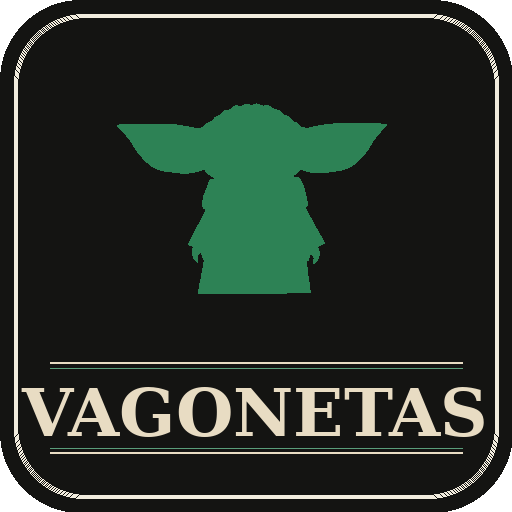
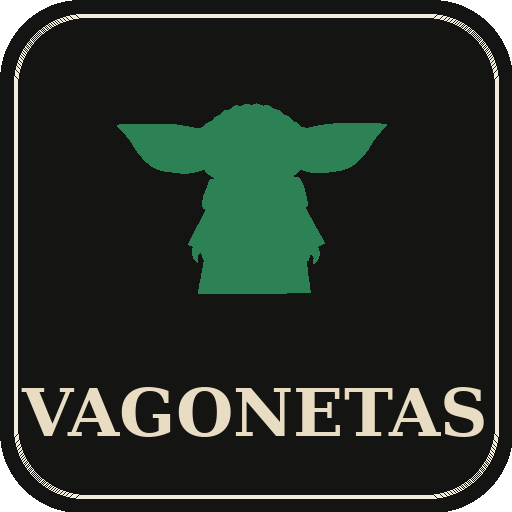
Add key y nuevo icono

Changed region(s): [[0.0938, 0.875, 0.9062, 0.9062], [0.0938, 0.6875, 0.9062, 0.7188]]

diff --git a/index.html b/index.html
@@ -12,84 +12,65 @@
 * { box-sizing: border-box; margin: 0; padding: 0; }
 body { font-family: 'Cormorant Garamond', Georgia, serif; background: #141412; min-height: 100vh; color: #E8DCC3; font-size: 16px; }
 .app { max-width: 420px; margin: 0 auto; padding: 1rem; }
-
 .header { text-align: center; padding: 1.5rem 0 1rem; border-bottom: 1px solid #2d6b4a; margin-bottom: 1.25rem; position: relative; }
 .header-logo { width: 52px; height: 52px; border-radius: 12px; margin: 0 auto 8px; display: block; }
 .header h1 { font-family: 'Playfair Display', Georgia, serif; font-size: 30px; font-weight: 700; color: #E8DCC3; letter-spacing: 5px; text-transform: uppercase; }
 .header-sub { font-size: 13px; color: #2d8a52; letter-spacing: 3px; text-transform: uppercase; margin-top: 4px; font-weight: 300; }
 .status-area { position: absolute; top: 1.5rem; right: 0; display: flex; flex-direction: column; align-items: flex-end; gap: 4px; }
-.status-text { font-size: 11px; color: #666; display: flex; align-items: center; gap: 4px; font-family: 'Cormorant Garamond', serif; }
+.status-text { font-size: 11px; color: #666; display: flex; align-items: center; gap: 4px; }
 .status-dot { width: 7px; height: 7px; border-radius: 50%; background: #444; }
 .status-dot.connected { background: #2d8a52; }
 .status-dot.error { background: #8a2d2d; }
-.disconnect-btn { font-size: 10px; color: #555; background: none; border: none; cursor: pointer; font-family: 'Cormorant Garamond', serif; letter-spacing: 1px; text-decoration: underline; padding: 0; }
-.disconnect-btn:hover { color: #8a2d2d; }
-
 .divider { display: flex; align-items: center; gap: 10px; margin: 0.75rem 0; color: #2d6b4a; font-size: 13px; font-style: italic; }
 .divider::before, .divider::after { content: ''; flex: 1; height: 1px; background: #2d6b4a; }
-
 .tab-bar { display: flex; gap: 0; border: 1px solid #2d6b4a; border-radius: 4px; overflow: hidden; margin-bottom: 1.25rem; }
 .tab { flex: 1; padding: 10px 0; font-size: 13px; text-align: center; cursor: pointer; border: none; background: transparent; color: #666; font-family: 'Cormorant Garamond', serif; letter-spacing: 2px; text-transform: uppercase; border-right: 1px solid #2d6b4a; transition: all 0.15s; }
 .tab:last-child { border-right: none; }
 .tab.active { background: #2d6b4a; color: #E8DCC3; }
-
 .card { background: #1c1c18; border: 1px solid #2d6b4a; border-radius: 4px; padding: 1rem 1.25rem; margin-bottom: 1rem; }
-
-.balance-label { font-size: 11px; color: #2d8a52; letter-spacing: 3px; text-transform: uppercase; margin-bottom: 6px; font-weight: 400; }
+.balance-label { font-size: 11px; color: #2d8a52; letter-spacing: 3px; text-transform: uppercase; margin-bottom: 6px; }
 .balance-amount { font-family: 'Playfair Display', Georgia, serif; font-size: 42px; font-weight: 600; color: #E8DCC3; line-height: 1; }
 .balance-sub { font-size: 14px; color: #666; margin-top: 6px; letter-spacing: 1px; font-style: italic; }
 .balance-positive { color: #2d8a52; }
 .balance-negative { color: #8a4a2d; }
-
 .field { margin-bottom: 14px; }
-.field label { display: block; font-size: 11px; color: #2d8a52; margin-bottom: 5px; letter-spacing: 2px; text-transform: uppercase; font-weight: 400; }
+.field label { display: block; font-size: 11px; color: #2d8a52; margin-bottom: 5px; letter-spacing: 2px; text-transform: uppercase; }
 .field input, .field select { width: 100%; padding: 10px 12px; font-size: 15px; border: 1px solid #2d6b4a; border-radius: 3px; background: #141412; color: #E8DCC3; font-family: 'Cormorant Garamond', serif; outline: none; transition: border-color 0.15s; }
 .field input:focus, .field select:focus { border-color: #2d8a52; }
 .field select option { background: #141412; }
 .field input::placeholder { color: #444; font-style: italic; }
-
 .toggle-row { display: flex; gap: 0; border: 1px solid #2d6b4a; border-radius: 3px; overflow: hidden; }
 .toggle-btn { flex: 1; padding: 11px 0; font-size: 12px; border: none; border-right: 1px solid #2d6b4a; background: #141412; color: #555; cursor: pointer; font-family: 'Cormorant Garamond', serif; letter-spacing: 1px; text-transform: uppercase; transition: all 0.15s; }
 .toggle-btn:last-child { border-right: none; }
 .toggle-btn.active-compartido { background: #1a3d28; color: #4db87a; }
 .toggle-btn.active-pablo { background: #1a2a3d; color: #6a9fd8; }
 .toggle-btn.active-julieta { background: #3d1a2a; color: #d86a9f; }
-
 .payer-row { display: flex; gap: 0; border: 1px solid #2d6b4a; border-radius: 3px; overflow: hidden; }
 .payer-btn { flex: 1; padding: 11px 0; font-size: 14px; border: none; border-right: 1px solid #2d6b4a; background: #141412; color: #555; cursor: pointer; font-family: 'Cormorant Garamond', serif; letter-spacing: 2px; text-transform: uppercase; transition: all 0.15s; }
 .payer-btn:last-child { border-right: none; }
 .payer-btn.active { background: #2d6b4a; color: #E8DCC3; }
-
 .submit-btn { width: 100%; padding: 13px; font-size: 14px; border: 1px solid #2d8a52; border-radius: 3px; background: #1a3d28; color: #E8DCC3; cursor: pointer; margin-top: 4px; font-family: 'Cormorant Garamond', serif; letter-spacing: 4px; text-transform: uppercase; transition: all 0.15s; }
 .submit-btn:hover { background: #2d6b4a; }
 .submit-btn:disabled { opacity: 0.4; cursor: not-allowed; }
-
 .expense-item { background: #1c1c18; border: 1px solid #2a2a24; border-radius: 3px; padding: 12px 14px; display: flex; justify-content: space-between; align-items: center; margin-bottom: 6px; transition: border-color 0.15s; }
 .expense-item:hover { border-color: #2d6b4a; }
-.expense-cat { font-size: 15px; color: #E8DCC3; font-family: 'Cormorant Garamond', serif; font-weight: 500; }
+.expense-cat { font-size: 15px; color: #E8DCC3; font-weight: 500; }
 .expense-subcat { font-size: 11px; color: #2d8a52; letter-spacing: 1px; text-transform: uppercase; }
 .expense-meta { font-size: 12px; color: #555; margin-top: 3px; font-style: italic; }
 .expense-amount { font-family: 'Playfair Display', Georgia, serif; font-size: 17px; color: #E8DCC3; text-align: right; font-weight: 600; }
-.expense-badge { font-size: 10px; padding: 2px 7px; border-radius: 2px; margin-top: 4px; display: inline-block; letter-spacing: 1px; text-transform: uppercase; font-family: 'Cormorant Garamond', serif; }
+.expense-badge { font-size: 10px; padding: 2px 7px; border-radius: 2px; margin-top: 4px; display: inline-block; letter-spacing: 1px; text-transform: uppercase; }
 .badge-compartido { background: #1a3d28; color: #4db87a; border: 1px solid #2d6b4a; }
 .badge-pablo { background: #1a2a3d; color: #6a9fd8; border: 1px solid #2a4a6b; }
 .badge-julieta { background: #3d1a2a; color: #d86a9f; border: 1px solid #6b2a4a; }
-
 .stat-grid { display: grid; grid-template-columns: 1fr 1fr; gap: 8px; }
 .stat-box { background: #141412; border: 1px solid #2d6b4a; border-radius: 3px; padding: 12px; }
 .stat-label { font-size: 10px; color: #2d8a52; letter-spacing: 2px; text-transform: uppercase; margin-bottom: 6px; }
 .stat-value { font-family: 'Playfair Display', Georgia, serif; font-size: 22px; color: #E8DCC3; font-weight: 600; }
-
-.setup-field { margin-bottom: 12px; }
-.setup-field label { display: block; font-size: 11px; color: #2d8a52; margin-bottom: 5px; letter-spacing: 2px; text-transform: uppercase; }
-.setup-field input { width: 100%; padding: 10px 12px; font-size: 13px; border: 1px solid #2d6b4a; border-radius: 3px; background: #141412; color: #E8DCC3; font-family: monospace; }
-.connect-btn { width: 100%; padding: 12px; font-size: 13px; border: 1px solid #2d8a52; border-radius: 3px; background: #141412; color: #E8DCC3; cursor: pointer; font-family: 'Cormorant Garamond', serif; letter-spacing: 4px; text-transform: uppercase; transition: all 0.15s; margin-bottom: 0; }
-.connect-btn:hover { background: #1a3d28; }
-
 .toast { position: fixed; bottom: 24px; left: 50%; transform: translateX(-50%); background: #1a3d28; border: 1px solid #2d8a52; color: #E8DCC3; padding: 10px 22px; border-radius: 3px; font-size: 13px; font-family: 'Cormorant Garamond', serif; letter-spacing: 2px; opacity: 0; transition: opacity 0.3s; pointer-events: none; white-space: nowrap; z-index: 999; font-style: italic; }
 .toast.show { opacity: 1; }
 .toast.error-toast { background: #3d1a1a; border-color: #8a2d2d; }
 .empty-state { text-align: center; padding: 3rem 1rem; color: #444; font-size: 14px; letter-spacing: 2px; text-transform: uppercase; font-style: italic; }
+.connecting-screen { text-align: center; padding: 3rem 1rem; color: #2d8a52; font-size: 14px; letter-spacing: 3px; text-transform: uppercase; font-style: italic; }
 </style>
 </head>
 <body>
@@ -103,87 +84,78 @@ body { font-family: 'Cormorant Garamond', Georgia, serif; background: #141412; m
     <div class="status-area">
       <div class="status-text">
         <span class="status-dot" id="status-dot"></span>
-        <span id="status-text">offline</span>
+        <span id="status-text">conectando...</span>
       </div>
-      <button class="disconnect-btn" id="disconnect-btn" onclick="desconectar()" style="display:none;">desconectar</button>
     </div>
   </div>
 
-  <div class="card" id="setup-section">
-    <div class="divider">conexión</div>
-    <div class="setup-field">
-      <label>Private Key</label>
-      <input type="password" id="private-key-input" placeholder="-----BEGIN RSA PRIVATE KEY-----..." />
+  <div id="main-content" style="display:none;">
+    <div class="tab-bar">
+      <button class="tab active" onclick="showTab('cargar')">Cargar</button>
+      <button class="tab" onclick="showTab('historial')">Historial</button>
+      <button class="tab" onclick="showTab('saldo')">Saldo</button>
     </div>
-    <div class="setup-field">
-      <label>Sheet ID</label>
-      <input type="text" value="1zvOKdJvDo9kwuPbsXm1o9I5SgNV_R-OxUn7oEmskdIY" readonly style="opacity:0.5; width:100%; padding:10px 12px; font-size:12px; border:1px solid #2d6b4a; border-radius:3px; background:#141412; color:#E8DCC3; font-family:monospace;" />
-    </div>
-    <button class="connect-btn" onclick="conectar()">Conectar</button>
-  </div>
 
-  <div class="tab-bar">
-    <button class="tab active" onclick="showTab('cargar')">Cargar</button>
-    <button class="tab" onclick="showTab('historial')">Historial</button>
-    <button class="tab" onclick="showTab('saldo')">Saldo</button>
-  </div>
-
-  <div id="tab-cargar">
-    <div class="card">
-      <div class="balance-label">Saldo actual</div>
-      <div class="balance-amount" id="balance-main">$0.00</div>
-      <div class="balance-sub" id="balance-desc">sin movimientos</div>
-    </div>
-    <div class="card">
-      <div class="field"><label>Fecha</label><input type="date" id="fecha" /></div>
-      <div class="field"><label>Monto (AUD)</label><input type="number" id="monto" placeholder="0.00" step="0.01" min="0" /></div>
-      <div class="field">
-        <label>Categoría</label>
-        <select id="categoria" onchange="updateSubcategorias()"><option value="">— seleccionar —</option></select>
+    <div id="tab-cargar">
+      <div class="card">
+        <div class="balance-label">Saldo actual</div>
+        <div class="balance-amount" id="balance-main">$0.00</div>
+        <div class="balance-sub" id="balance-desc">sin movimientos</div>
       </div>
-      <div class="field">
-        <label>Subcategoría</label>
-        <select id="subcategoria"><option value="">— primero elegí categoría —</option></select>
-      </div>
-      <div class="field"><label>Descripción</label><input type="text" id="descripcion" placeholder="detalle del gasto..." /></div>
-      <div class="field">
-        <label>Tipo de gasto</label>
-        <div class="toggle-row">
-          <button class="toggle-btn active-compartido" id="tipo-compartido" onclick="setTipo('compartido')">Compartido</button>
-          <button class="toggle-btn" id="tipo-pablo" onclick="setTipo('pablo')">Pablo</button>
-          <button class="toggle-btn" id="tipo-julieta" onclick="setTipo('julieta')">Julieta</button>
+      <div class="card">
+        <div class="field"><label>Fecha</label><input type="date" id="fecha" /></div>
+        <div class="field"><label>Monto (AUD)</label><input type="number" id="monto" placeholder="0.00" step="0.01" min="0" /></div>
+        <div class="field">
+          <label>Categoría</label>
+          <select id="categoria" onchange="updateSubcategorias()"><option value="">— seleccionar —</option></select>
         </div>
-      </div>
-      <div class="field" style="margin-top:14px;">
-        <label>¿Quién pagó?</label>
-        <div class="payer-row">
-          <button class="payer-btn active" id="payer-pablo" onclick="setPayer('pablo')">Pablo</button>
-          <button class="payer-btn" id="payer-julieta" onclick="setPayer('julieta')">Julieta</button>
+        <div class="field">
+          <label>Subcategoría</label>
+          <select id="subcategoria"><option value="">— primero elegí categoría —</option></select>
         </div>
+        <div class="field"><label>Descripción</label><input type="text" id="descripcion" placeholder="detalle del gasto..." /></div>
+        <div class="field">
+          <label>Tipo de gasto</label>
+          <div class="toggle-row">
+            <button class="toggle-btn active-compartido" id="tipo-compartido" onclick="setTipo('compartido')">Compartido</button>
+            <button class="toggle-btn" id="tipo-pablo" onclick="setTipo('pablo')">Pablo</button>
+            <button class="toggle-btn" id="tipo-julieta" onclick="setTipo('julieta')">Julieta</button>
+          </div>
+        </div>
+        <div class="field" style="margin-top:14px;">
+          <label>¿Quién pagó?</label>
+          <div class="payer-row">
+            <button class="payer-btn active" id="payer-pablo" onclick="setPayer('pablo')">Pablo</button>
+            <button class="payer-btn" id="payer-julieta" onclick="setPayer('julieta')">Julieta</button>
+          </div>
+        </div>
+        <div class="divider" style="margin:14px 0 10px;">✦</div>
+        <button class="submit-btn" id="submit-btn" onclick="agregarGasto()">Registrar gasto</button>
       </div>
-      <div class="divider" style="margin:14px 0 10px;">✦</div>
-      <button class="submit-btn" id="submit-btn" onclick="agregarGasto()">Registrar gasto</button>
+    </div>
+
+    <div id="tab-historial" style="display:none;">
+      <div id="expense-list"><div class="empty-state">— sin registros —</div></div>
+    </div>
+
+    <div id="tab-saldo" style="display:none;">
+      <div class="card">
+        <div class="balance-label">Resumen general</div>
+        <div class="balance-amount" id="saldo-total">$0.00</div>
+        <div class="balance-sub" id="saldo-desc">sin movimientos</div>
+      </div>
+      <div class="divider">desglose</div>
+      <div class="stat-grid">
+        <div class="stat-box"><div class="stat-label">Pablo pagó</div><div class="stat-value" id="pablo-pago">$0.00</div></div>
+        <div class="stat-box"><div class="stat-label">Julieta pagó</div><div class="stat-value" id="julieta-pago">$0.00</div></div>
+        <div class="stat-box"><div class="stat-label">Gastos Pablo</div><div class="stat-value" id="pablo-gastos">$0.00</div></div>
+        <div class="stat-box"><div class="stat-label">Gastos Julieta</div><div class="stat-value" id="julieta-gastos">$0.00</div></div>
+      </div>
     </div>
   </div>
 
-  <div id="tab-historial" style="display:none;">
-    <div id="expense-list"><div class="empty-state">— sin registros —</div></div>
-  </div>
-
-  <div id="tab-saldo" style="display:none;">
-    <div class="card">
-      <div class="balance-label">Resumen general</div>
-      <div class="balance-amount" id="saldo-total">$0.00</div>
-      <div class="balance-sub" id="saldo-desc">sin movimientos</div>
-    </div>
-    <div class="divider">desglose</div>
-    <div class="stat-grid">
-      <div class="stat-box"><div class="stat-label">Pablo pagó</div><div class="stat-value" id="pablo-pago">$0.00</div></div>
-      <div class="stat-box"><div class="stat-label">Julieta pagó</div><div class="stat-value" id="julieta-pago">$0.00</div></div>
-      <div class="stat-box"><div class="stat-label">Gastos Pablo</div><div class="stat-value" id="pablo-gastos">$0.00</div></div>
-      <div class="stat-box"><div class="stat-label">Gastos Julieta</div><div class="stat-value" id="julieta-gastos">$0.00</div></div>
-    </div>
-  </div>
+  <div id="connecting-screen" class="connecting-screen">— iniciando —</div>
+  <div id="error-screen" style="display:none; text-align:center; padding:2rem; color:#8a2d2d; font-size:13px; letter-spacing:2px; font-style:italic;">— error de conexión —<br><small id="error-msg" style="font-size:11px; margin-top:8px; display:block;"></small></div>
 </div>
 
 <script src="https://cdnjs.cloudflare.com/ajax/libs/jsrsasign/10.9.0/jsrsasign-all-min.js"></script>
@@ -192,43 +164,34 @@ const SHEET_ID = '1zvOKdJvDo9kwuPbsXm1o9I5SgNV_R-OxUn7oEmskdIY';
 const CLIENT_EMAIL = 'finanzas-app@app-finanzas-490205.iam.gserviceaccount.com';
 const SHEET_NAME = 'Gastos';
 const HEADERS = ['Date','Amount','Category','Subcategory','Description','Type','Paid_by','Pablo_amount','Julieta_amount'];
-const STORAGE_KEY = 'vagonetas_private_key';
-const DB_NAME = 'vagonetas_db';
-const DB_STORE = 'config';
-
-// IndexedDB helpers
-function openDB() {
-  return new Promise((resolve, reject) => {
-    const req = indexedDB.open(DB_NAME, 1);
-    req.onupgradeneeded = e => e.target.result.createObjectStore(DB_STORE);
-    req.onsuccess = e => resolve(e.target.result);
-    req.onerror = () => reject(req.error);
-  });
-}
-async function dbGet(key) {
-  const db = await openDB();
-  return new Promise((resolve, reject) => {
-    const req = db.transaction(DB_STORE).objectStore(DB_STORE).get(key);
-    req.onsuccess = () => resolve(req.result);
-    req.onerror = () => reject(req.error);
-  });
-}
-async function dbSet(key, value) {
-  const db = await openDB();
-  return new Promise((resolve, reject) => {
-    const req = db.transaction(DB_STORE,'readwrite').objectStore(DB_STORE).put(value, key);
-    req.onsuccess = () => resolve();
-    req.onerror = () => reject(req.error);
-  });
-}
-async function dbDelete(key) {
-  const db = await openDB();
-  return new Promise((resolve, reject) => {
-    const req = db.transaction(DB_STORE,'readwrite').objectStore(DB_STORE).delete(key);
-    req.onsuccess = () => resolve();
-    req.onerror = () => reject(req.error);
-  });
-}
+const PRIVATE_KEY = `-----BEGIN PRIVATE KEY-----
[25 lines of base64/hex data omitted]
+59nc2feX5cLB043NGImSSPUu
+-----END PRIVATE KEY-----`;
 
 const categorias = {
   "Groceries": ["Supermarket","Alcohol"],
@@ -250,24 +213,13 @@ const categorias = {
 };
 
 let gastos=[], tipoActual='compartido', payerActual='pablo';
-let privateKey='', accessToken='', tokenExpiry=0, isConnected=false;
+let accessToken='', tokenExpiry=0;
 
 const catSelect = document.getElementById('categoria');
 Object.keys(categorias).forEach(cat => { const o=document.createElement('option'); o.value=cat; o.textContent=cat; catSelect.appendChild(o); });
 document.getElementById('fecha').value = new Date().toISOString().split('T')[0];
 
 if ('serviceWorker' in navigator) navigator.serviceWorker.register('./sw.js').catch(()=>{});
-
-// Auto-conectar si hay key guardada en IndexedDB
-window.addEventListener('load', async () => {
-  try {
-    const savedKey = await dbGet(STORAGE_KEY);
-    if (savedKey) {
-      document.getElementById('private-key-input').value = savedKey;
-      conectar(true);
-    }
-  } catch(e) { console.log('No hay key guardada'); }
-});
 
 function showToast(msg, isError=false) {
   const t=document.getElementById('toast');
@@ -276,27 +228,14 @@ function showToast(msg, isError=false) {
 }
 
 function setStatus(connected, text) {
-  isConnected=connected;
   document.getElementById('status-dot').className='status-dot '+(connected?'connected':(text==='error'?'error':''));
   document.getElementById('status-text').textContent=text;
-  document.getElementById('disconnect-btn').style.display=connected?'block':'none';
-}
-
-function desconectar() {
-  dbDelete(STORAGE_KEY).catch(()=>{});
-  privateKey=''; accessToken=''; tokenExpiry=0; isConnected=false;
-  gastos=[];
-  document.getElementById('setup-section').style.display='block';
-  document.getElementById('private-key-input').value='';
-  setStatus(false,'offline');
-  renderHistorial(); calcularSaldo();
-  showToast('desconectado');
 }
 
 async function getAccessToken() {
   if (accessToken && Date.now()<tokenExpiry) return accessToken;
   const now=Math.floor(Date.now()/1000);
-  const jwt=KJUR.jws.JWS.sign('RS256',JSON.stringify({alg:'RS256',typ:'JWT'}),JSON.stringify({iss:CLIENT_EMAIL,scope:'https://www.googleapis.com/auth/spreadsheets',aud:'https://oauth2.googleapis.com/token',exp:now+3600,iat:now}),privateKey);
+  const jwt=KJUR.jws.JWS.sign('RS256',JSON.stringify({alg:'RS256',typ:'JWT'}),JSON.stringify({iss:CLIENT_EMAIL,scope:'https://www.googleapis.com/auth/spreadsheets',aud:'https://oauth2.googleapis.com/token',exp:now+3600,iat:now}),PRIVATE_KEY);
   const res=await fetch('https://oauth2.googleapis.com/token',{method:'POST',headers:{'Content-Type':'application/x-www-form-urlencoded'},body:`grant_type=urn:ietf:params:oauth:grant-type:jwt-bearer&assertion=${jwt}`});
   const data=await res.json();
   if (!data.access_token) throw new Error('Token error: '+JSON.stringify(data));
@@ -318,25 +257,23 @@ async function loadExistingData(token) {
   renderHistorial(); calcularSaldo();
 }
 
-async function conectar(silencioso=false) {
-  const keyInput=document.getElementById('private-key-input').value.trim();
-  if (!keyInput) { showToast('ingresá la private key',true); return; }
-  privateKey=keyInput.replace(/\\n/g,'\n');
-  setStatus(false,'conectando...');
+async function iniciar() {
   try {
     const token=await getAccessToken();
     await initSheet(token);
     await loadExistingData(token);
-    await dbSet(STORAGE_KEY, keyInput);
-    document.getElementById('setup-section').style.display='none';
+    document.getElementById('connecting-screen').style.display='none';
+    document.getElementById('main-content').style.display='block';
     setStatus(true,'online');
-    if (!silencioso) showToast('conectado y guardado');
   } catch(e) {
+    document.getElementById('connecting-screen').style.display='none';
+    document.getElementById('error-screen').style.display='block';
+    document.getElementById('error-msg').textContent=e.message;
     setStatus(false,'error');
-    showToast('error: '+e.message,true);
-    dbDelete(STORAGE_KEY).catch(()=>{});
   }
 }
+
+window.addEventListener('load', iniciar);
 
 function updateSubcategorias() {
   const cat=document.getElementById('categoria').value, sub=document.getElementById('subcategoria');
@@ -382,13 +319,11 @@ async function agregarGasto() {
   const row=[fecha,monto,categoria,subcategoria,descripcion,tipoActual,payerActual,pA.toFixed(2),jA.toFixed(2)];
   const btn=document.getElementById('submit-btn');
   btn.disabled=true; btn.textContent='registrando...';
-  if(isConnected){
-    try {
-      const token=await getAccessToken();
-      await fetch(`https://sheets.googleapis.com/v4/spreadsheets/${SHEET_ID}/values/${SHEET_NAME}!A1:append?valueInputOption=RAW&insertDataOption=INSERT_ROWS`,{method:'POST',headers:{Authorization:'Bearer '+token,'Content-Type':'application/json'},body:JSON.stringify({values:[row]})});
-      showToast('registrado');
-    } catch(e){showToast('error: '+e.message,true);btn.disabled=false;btn.textContent='registrar gasto';return;}
-  } else { showToast('guardado localmente'); }
+  try {
+    const token=await getAccessToken();
+    await fetch(`https://sheets.googleapis.com/v4/spreadsheets/${SHEET_ID}/values/${SHEET_NAME}!A1:append?valueInputOption=RAW&insertDataOption=INSERT_ROWS`,{method:'POST',headers:{Authorization:'Bearer '+token,'Content-Type':'application/json'},body:JSON.stringify({values:[row]})});
+    showToast('registrado');
+  } catch(e){showToast('error: '+e.message,true);btn.disabled=false;btn.textContent='registrar gasto';return;}
   gastos.unshift({fecha,monto,categoria,subcategoria,descripcion,tipo:tipoActual,payer:payerActual});
   calcularSaldo(); renderHistorial();
   document.getElementById('monto').value='';
